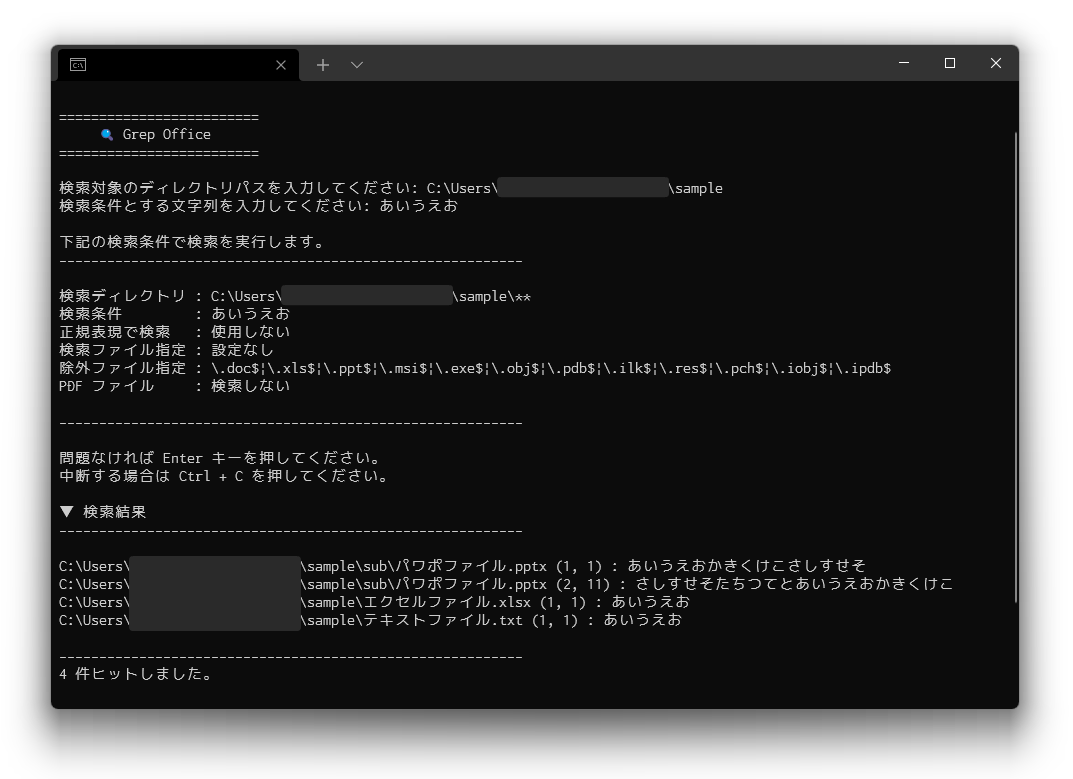
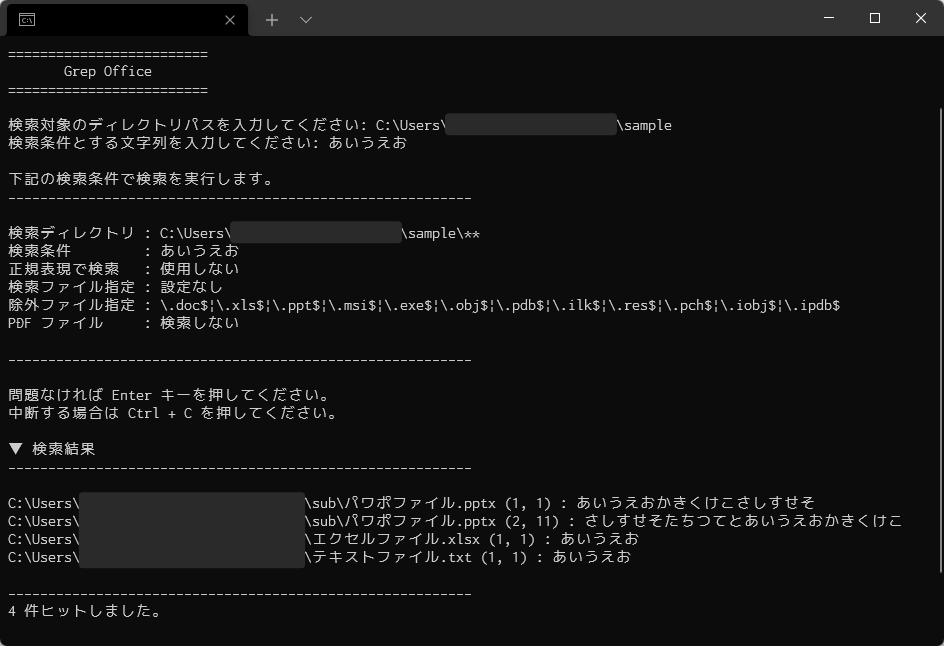
[update]タイトルから絵文字を削除

diff --git a/GrepOffice.py b/GrepOffice.py
@@ -8,7 +8,7 @@ import utils
 
 print('\n')
 print('=========================')
-print('     🔍 Grep Office     ')
+print('       Grep Office       ')
 print('=========================')
 
 try:
